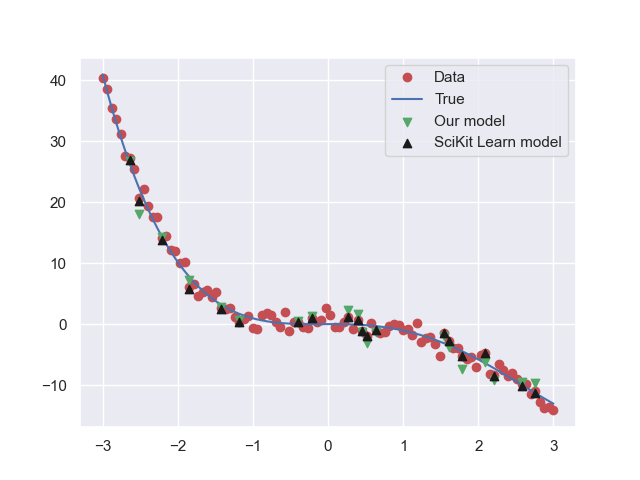
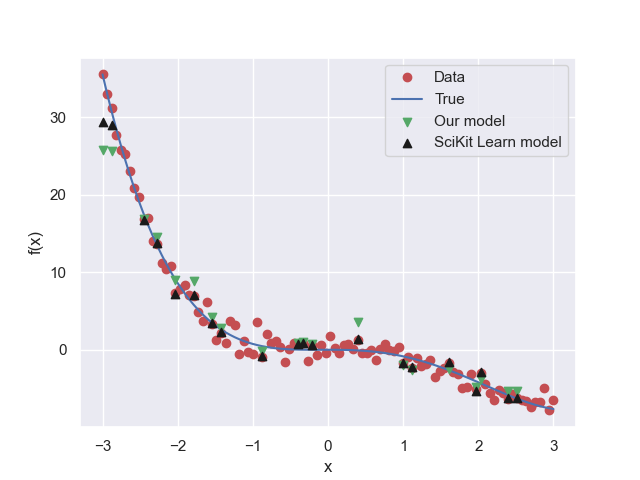
plots for task b

diff --git a/part_b.py b/part_b.py
@@ -14,6 +14,8 @@ def create_eta_lambda_heatmap(X_train, t_train, eta_vals, lmbd_vals, n_epochs, b
     train_r2 = np.zeros((len(eta_vals), len(lmbd_vals)))
     test_r2 = np.zeros((len(eta_vals), len(lmbd_vals)))
 
+    linear_regression = FFNN(layers, hidden_func=sigmoid, cost_func=cost_func, output_func=identity)
+
     for i, eta in enumerate(eta_vals):
         for j, lmbd in enumerate(lmbd_vals): 
             linear_regression.reset_weights() # reset weights such that previous runs or reruns don't affect the weights
@@ -57,12 +59,13 @@ def plot_activation_func_comparison(X_train, X_test, target, n_epochs, batches, 
             'marker': '*',
             'color': 'orange'
         },
-        'Identity': {
-            'func': identity,
+        'Hyperbolic tangent': {
+            'func': tanh,
             'marker': '+',
             'color': 'gray'
         },
     }
+    sns.set()
     for key in activation_func_dict.keys():
         # activation_func = activation_func_dict[key]['func']
         func = activation_func_dict[key]['func']
@@ -72,16 +75,18 @@ def plot_activation_func_comparison(X_train, X_test, target, n_epochs, batches, 
         scores = linear_regression.fit(X_train, target, scheduler, epochs=n_epochs, batches=batches, lam=lmbd)
         pred = linear_regression.predict(X_test)
         plt.scatter(X_test[:,0], pred, c=activation_func_dict[key]['color'], marker=activation_func_dict[key]['marker'], label=key, zorder=10)
+        mse = mean_squared_error(pred, true_test)
+        r2 = r2_score(true_test, pred)
+        print(f"\nActivation function: {key}\n\tMSE = \t{mse:.4f}\tR^2 = \t{r2:.4f}")
 
     # Plot
-    sns.set()
     plt.plot(X[:,0], y, 'ro', label='Data')
     plt.plot(X[:,0], y_true, 'b-', label='True')
     plt.legend()
     plt.show()
 
-def compare_model_and_sklearn(X_train, X_test, target_train, target_test, true_train, true_test, layers, lmbd, eta, batches, n_epochs):
-    M = int(X_train.shape[0] // batches)
+def compare_model_and_sklearn(X_train, X_test, target_train, true_test, layers, lmbd, eta, batches, n_epochs):
+    batch_size = int(X_train.shape[0] // batches)
 
     # Out model
     our_model = FFNN(layers, hidden_func=sigmoid, cost_func=cost_func, output_func=identity)
@@ -91,12 +96,11 @@ def compare_model_and_sklearn(X_train, X_test, target_train, target_test, true_t
 
     # SciKit Learn model
     clf = MLPRegressor(hidden_layer_sizes=layers[1:-1], activation='logistic', solver='adam', 
-                       alpha=lmbd, batch_size=M, learning_rate_init=eta, max_iter=400, 
+                       alpha=lmbd, batch_size=batch_size, learning_rate_init=eta, max_iter=400, 
                        shuffle=False, tol=0.001, verbose=False,
                        beta_1=0.9, beta_2=0.999, epsilon=10e-8)
-
     clf.fit(X_train, target_train.ravel())
-    
+
     # Predict
     pred = our_model.predict(X_test)
     pred_sklearn = clf.predict(X_test)
@@ -104,10 +108,11 @@ def compare_model_and_sklearn(X_train, X_test, target_train, target_test, true_t
     # Score
     score = mean_squared_error(pred, true_test)
     score_sklearn = mean_squared_error(pred_sklearn, true_test)
-    print(f"\nOur model score: {score}")
-    print(f"\nSciKit Learn score: {score_sklearn}")
+    r2_our = r2_score(true_test, pred)
+    r2_sklearn = r2_score(true_test, pred_sklearn)
 
-
+    print(f"\nOur model score: \tMSE\t{score:.4f}\t R^2\t{r2_our:.4f}")
+    print(f"SciKit Learn score: \tMSE\t{score_sklearn:.4f}\t R^2\t{r2_sklearn:.4f}")
 
     # Plot
     sns.set()
@@ -116,19 +121,61 @@ def compare_model_and_sklearn(X_train, X_test, target_train, target_test, true_t
     plt.scatter(X_test[:,0], pred, c='g', marker='v', label='Our model', zorder=10)
     plt.scatter(X_test[:,0], pred_sklearn, c='k', marker='^', label='SciKit Learn model', zorder=10)
     plt.legend()
+    # plt.title(r'$f(x) = \frac{1}{5}x^4 - \frac{4}{5}x^3 - \frac{1}{4}x^2$')
+    plt.xlabel('x')
+    plt.ylabel('f(x)')
     plt.show()
 
+def compare_weight_inits(X_train, X_test, target_train, true_test, eta, lmbd, batches, n_epochs):
+    # Compare weight initializations using normal distribution and Xavier Glorot initialization
+    
+    # Normal distribution
+    ordinary_weight_model = FFNN(layers, hidden_func=sigmoid, cost_func=cost_func, output_func=identity)
+    ordinary_weight_model.reset_weights()
+    scheduler = Adam(eta=eta, rho=0.9, rho2=0.999)
+    scores = ordinary_weight_model.fit(X_train, target_train, scheduler, epochs=n_epochs, batches=batches, lam=lmbd)
+    pred = ordinary_weight_model.predict(X_test)
 
+    # Xavier Glorot initialization
+    XG_weight_model = FFNN(layers, hidden_func=sigmoid, cost_func=cost_func, output_func=identity, use_Xavier_Glorot_weights=True)
+    XG_weight_model.reset_weights()
+    scheduler = Adam(eta=eta, rho=0.9, rho2=0.999)
+    scores = XG_weight_model.fit(X_train, target_train, scheduler, epochs=n_epochs, batches=batches, lam=lmbd)
+    pred_XG = XG_weight_model.predict(X_test)
+
+    # Scores
+    score = mean_squared_error(pred, true_test)
+    score_XG = mean_squared_error(pred_XG, true_test)
+    r2 = r2_score(true_test, pred)
+    r2_XG = r2_score(true_test, pred_XG)
+
+    print(f"\nNormal weight initialization score: \tMSE\t{score:.4f}\t R^2\t{r2:.4f}")
+    print(f"Xavier Glorot initialization score: \tMSE\t{score_XG:.4f}\t R^2\t{r2_XG:.4f}")
+
+    # Plot
+    sns.set()
+    plt.plot(X[:,0], y, 'ro', label='Data')
+    plt.plot(X[:,0], y_true, 'b-', label='True')
+    plt.scatter(X_test[:,0], pred, c='g', marker='v', label='Normal weight initialization', zorder=10)
+    plt.scatter(X_test[:,0], pred_XG, c='k', marker='^', label='Xavier Glorot initialization', zorder=10)
+    plt.legend()
+    # plt.title(r'$f(x) = \frac{1}{5}x^4 - \frac{4}{5}x^3 - \frac{1}{4}x^2$')
+    plt.xlabel('x')
+    plt.ylabel('f(x)')
+    plt.show()
+    pass
+
+rng_seed = 2023
 n = 100
 x = np.linspace(-3, 3, n)
 noise = np.random.normal(0, 1.0, n)
-y_true = 0.2*x**4 - 1*x**3 - 0.25*x**2#  + 2*np.sin(x*np.pi) + 4*np.sin(x*np.pi*0.7 + 0.3)
+y_true = 0.2*x**4 - 0.8*x**3 - 0.25*x**2#  + 2*np.sin(x*np.pi) + 4*np.sin(x*np.pi*0.7 + 0.3)
 # y_true = np.exp(-x**2)*np.sin(x*np.pi)
 y = y_true + noise
 X = np.column_stack((x.reshape(-1, 1), y.reshape(-1, 1)))
 
 # Split and scale
-X_train, X_test, t_train, t_test, true_train, true_test = train_test_split(X, y.reshape(-1, 1), y_true.reshape(-1, 1), test_size=0.2)
+X_train, X_test, t_train, t_test, true_train, true_test = train_test_split(X, y.reshape(-1, 1), y_true.reshape(-1, 1), test_size=0.2, random_state=rng_seed)
 
 # Model
 input_nodes = X_train.shape[1]
@@ -136,19 +183,14 @@ hidden_nodes_1 = 10
 hidden_nodes_2 = 5
 output_nodes = t_train.shape[1]
 layers = (input_nodes, hidden_nodes_1, hidden_nodes_2, output_nodes)
-n_epochs = 400
+n_epochs = 500
 batches = 20
 cost_func = CostOLS
 activation_func = sigmoid
-linear_regression = FFNN(layers, hidden_func=activation_func, cost_func=cost_func, output_func=identity)
-
-# Train and create heatmap
 eta_vals = np.logspace(-5, -2, 4)
 lmbd_vals = np.logspace(-5, -1, 5)
-# create_eta_lambda_heatmap(X_train, t_train, eta_vals, lmbd_vals, n_epochs, batches)
 
-# Train with different activation functions
-# plot_activation_func_comparison(X_train, X_test, t_train, n_epochs, batches, eta=0.01, lmbd=0.01)
-
-# Compare our model with SciKit Learn
-compare_model_and_sklearn(X_train, X_test, t_train, t_test, true_train, true_test, layers, lmbd=0.01, eta=0.01, batches=batches, n_epochs=n_epochs)
+create_eta_lambda_heatmap(X_train, t_train, eta_vals, lmbd_vals, n_epochs, batches)
+plot_activation_func_comparison(X_train, X_test, t_train, n_epochs, batches, eta=0.01, lmbd=0.01)# Train with different activation functions
+compare_model_and_sklearn(X_train, X_test, t_train, true_test, layers, lmbd=0.01, eta=0.01, batches=batches, n_epochs=n_epochs) # Compare our model with SciKit Learn
+compare_weight_inits(X_train, X_test, t_train, true_test, eta=0.01, lmbd=0.01, batches=batches, n_epochs=n_epochs) # Compare weight initializations
